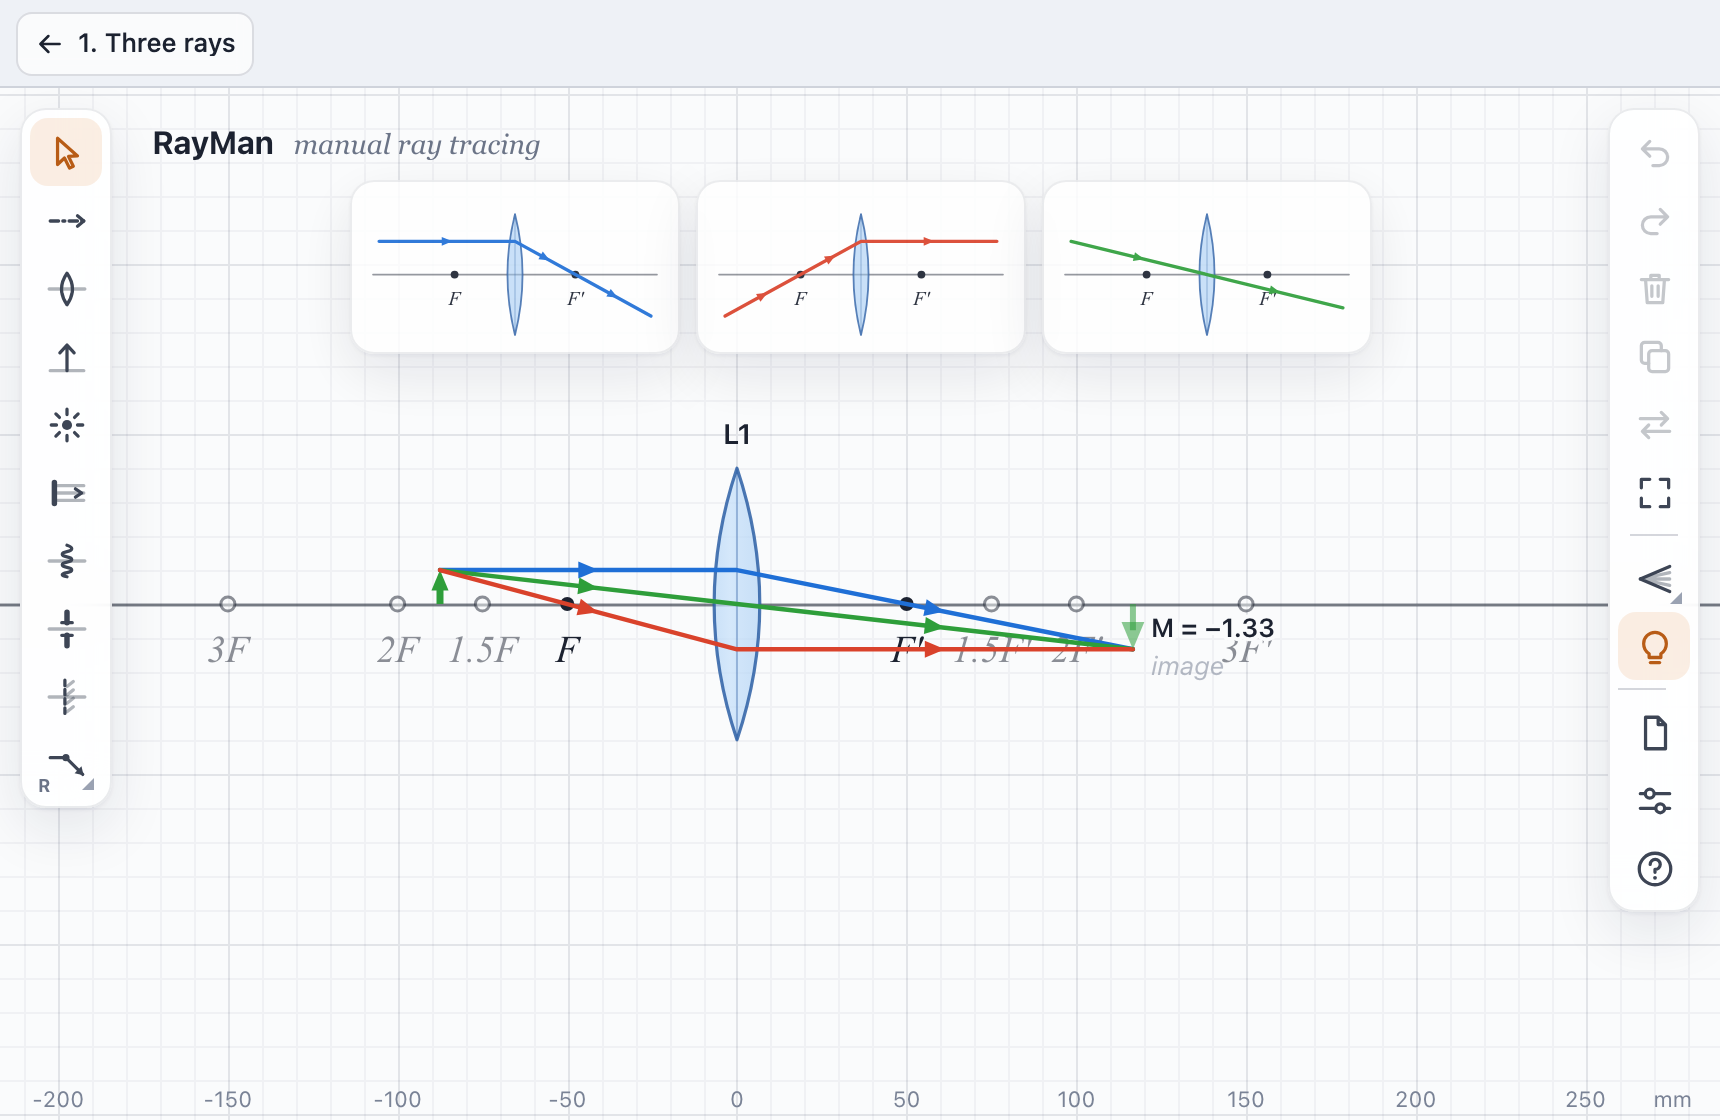
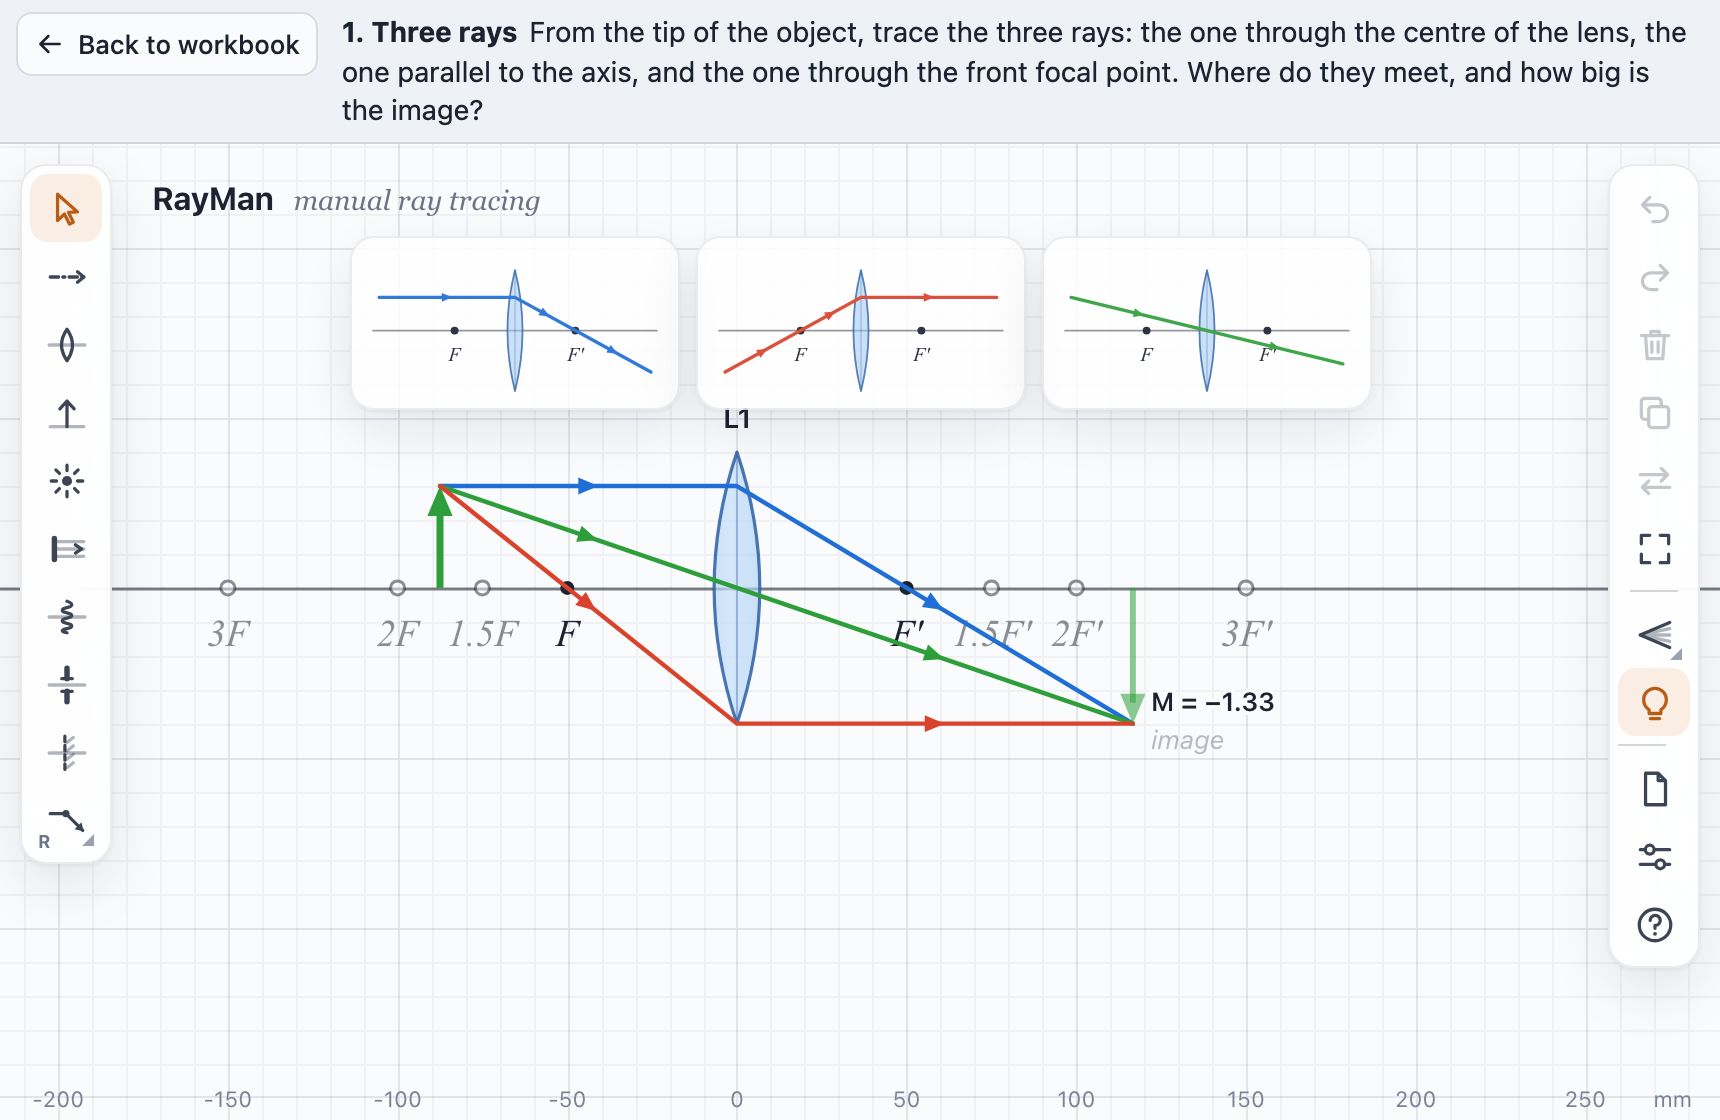
Workbook exercises load their scenes from .json files; instructions shown over RayMan (#15)
The example workbook points each exercise at a .json file beside the page (data-src),
with a test for loading it. Objects are 0.75 x the lens half height (3x taller). An
element with class rayman-instructions and data-for the exercise id is shown in the bar
beside Back to workbook, which grows with the text. Guide, CLAUDE.md, LOG updated.

diff --git a/workbook.js b/workbook.js
@@ -3,12 +3,14 @@
      <script src="https://swcmicroscopy.com/RayMan/workbook.js" defer></script>
      <div class="rayman-workbook-bar"></div>                      (optional: where Save and Load go)
      <p>Trace the three rays from the tip of the object.</p>
-     <div class="rayman-exercise" id="three-rays" data-title="Three rays">
-       <script type="application/json">{ …a scene saved from RayMan… }</script>
-     </div>
+     <p><span class="rayman-instructions" data-for="three-rays">Trace the three rays…</span></p>
+     <div class="rayman-exercise" id="three-rays" data-src="three-rays.json" data-title="Three rays"></div>
 
-   The scene can also come from data-src="….json", as with embed.js; data-height and data-theme
-   work as there. Clicking an exercise opens RayMan over the page (an iframe, index.html?workbook);
+   The scene is a .json file saved from RayMan, next to the page (data-src; the page must be served
+   from a web address, since browsers will not fetch files for a page opened from disk). It can also
+   be inside the element: <script type="application/json">{ … }</script>. data-height and data-theme
+   work as in embed.js. The instructions, in an element with class rayman-instructions and
+   data-for the exercise's id, are shown in the bar above RayMan, beside Back to workbook. Clicking an exercise opens RayMan over the page (an iframe, index.html?workbook);
    every change the student makes comes back to the page (postMessage), so the page may be served
    from any site. "Back to workbook" closes RayMan, and the diagram in the page shows the work.
 
@@ -64,7 +66,28 @@
     return (s || 'workbook') + '-answers.html';
   }
 
-  var H = { pick: pick, answersIn: answersIn, withAnswers: withAnswers, fileName: fileName };
+  /** The exercise's starting scene as text: inside the element, else fetched from its data-src
+      (get = fetch, or a stand-in). Rejects with a message to show if there is neither, or the
+      file is not there. */
+  function sceneText(el, get) {
+    var inline = el.querySelector('script[type="application/json"]');
+    if (inline) return Promise.resolve(inline.textContent);
+    if (!el.dataset.src) return Promise.reject(new Error('No scene: give data-src, or the scene inside the element.'));
+    return (get || fetch)(el.dataset.src).then(function (r) {
+      if (!r.ok) throw new Error('Could not load ' + el.dataset.src + ' (' + r.status + ').');
+      return r.text();
+    });
+  }
+
+  /** The instructions for exercise id: the text of the element with class rayman-instructions and
+      data-for that id, in root (the document), or '' if there is none. */
+  function instructionsFor(root, id) {
+    var el = root.querySelector('.rayman-instructions[data-for="' + String(id).replace(/["\\]/g, '\\$&') + '"]');
+    return el ? el.textContent.replace(/\s+/g, ' ').trim() : '';
+  }
+
+  var H = { pick: pick, answersIn: answersIn, withAnswers: withAnswers, fileName: fileName,
+            sceneText: sceneText, instructionsFor: instructionsFor };
   if (typeof module === 'object' && module.exports) { module.exports = H; return; }
 
   // ---------------------------------------------------------------- the page
@@ -107,9 +130,11 @@
     '.rm-wb-note{font:13px system-ui,-apple-system,"Segoe UI",sans-serif;color:#7a8396}',
     '.rm-wb-over{position:fixed;inset:0;z-index:2147483000;display:flex;flex-direction:column;background:#fafbfc}',
     '.rm-wb-over.rm-away{visibility:hidden;pointer-events:none}',
-    '.rm-wb-top{display:flex;align-items:center;gap:12px;height:44px;padding:0 8px;flex:none;',
-    'font:600 15px system-ui,-apple-system,"Segoe UI",sans-serif;color:#1c2230;background:#eef1f6;border-bottom:1px solid rgba(20,30,60,.14)}',
-    '.rm-wb-top span{overflow:hidden;text-overflow:ellipsis;white-space:nowrap}',
+    '.rm-wb-top{display:flex;align-items:flex-start;gap:12px;min-height:44px;max-height:35vh;overflow-y:auto;padding:6px 12px 6px 8px;flex:none;box-sizing:border-box;',
+    'font:14px/1.4 system-ui,-apple-system,"Segoe UI",sans-serif;color:#1c2230;background:#eef1f6;border-bottom:1px solid rgba(20,30,60,.14)}',
+    '.rm-wb-top .rm-btn{flex:none}',
+    '.rm-wb-text{flex:1;min-width:0;align-self:center}',
+    '.rm-wb-top b{margin-right:6px}',
     '.rm-wb-over iframe{flex:1;width:100%;border:0;display:block}',
     '.rm-wb-wait{position:absolute;inset:44px 0 0;display:grid;place-items:center;font:14px system-ui,sans-serif;color:#7a8396;z-index:-1}'
   ].join('');
@@ -125,16 +150,6 @@
 
   // ---------------------------------------------------------------- one exercise
 
-  function sceneText(el) {
-    var inline = el.querySelector('script[type="application/json"]');
-    if (inline) return Promise.resolve(inline.textContent);
-    if (!el.dataset.src) return Promise.reject(new Error('No scene: give data-src, or the scene inside the element.'));
-    return fetch(el.dataset.src).then(function (r) {
-      if (!r.ok) throw new Error('Could not load ' + el.dataset.src + ' (' + r.status + ').');
-      return r.text();
-    });
-  }
-
   /** A scene as RayMan holds it: the text it sends back for an unchanged exercise. */
   function scene(text) {
     var s = RM.scene.ensureAxis(RM.scene.fromJSON(text));
@@ -145,6 +160,7 @@
   function Exercise(el, i, start) {
     var x = { el: el, id: el.id || 'exercise-' + (i + 1), start: RM.scene.toJSON(scene(start)), canvas: null };
     x.title = el.dataset.title || 'Exercise ' + (i + 1);
+    x.instructions = instructionsFor(document, x.id);
     var theme = function () { return E.themeOf(el); };
     var bar = document.createElement('div');
     bar.className = 'rm-bar';
@@ -200,7 +216,8 @@
     top.className = 'rm-wb-top';
     var back = E.button('back', 'Back to workbook', 'Close RayMan and go back to the workbook');
     back.addEventListener('click', close);
-    var title = document.createElement('span');
+    var title = document.createElement('div');
+    title.className = 'rm-wb-text';
     top.appendChild(back); top.appendChild(title);
     var wait = document.createElement('div');
     wait.className = 'rm-wb-wait'; wait.textContent = 'Opening RayMan…';
@@ -225,7 +242,12 @@
   function open(x) {
     overlay();
     current = x;
-    over.querySelector('.rm-wb-top span').textContent = x.title;
+    var note = over.querySelector('.rm-wb-text');
+    note.textContent = '';
+    var t = document.createElement('b');
+    t.textContent = x.title;
+    note.appendChild(t);
+    if (x.instructions) note.appendChild(document.createTextNode(x.instructions));
     over.classList.remove('rm-away');
     overflow = document.body.style.overflow;
     document.body.style.overflow = 'hidden';

diff --git a/examples/workbook/index.html b/examples/workbook/index.html
@@ -40,31 +40,25 @@
 <div class="rayman-workbook-bar"></div>
 
 <h2>1. Three rays</h2>
-<p>The object stands 1.75 focal lengths in front of the lens L1 (f = 50 mm), and the hints are
-  on. From the tip of the object, trace the three rays: the one through the centre of the lens,
-  the one parallel to the axis, and the one through the front focal point. Where do they meet,
-  and how big is the image?</p>
-<div class="rayman-exercise" id="three-rays" data-title="1. Three rays" data-height="320">
-<script type="application/json">{"version":2,"nextId":4,"elements":[{"id":"e1","type":"axis","y":0,"label":""},{"id":"e2","type":"lens","z":0,"f":50,"ap":40,"label":"L1","planes":false,"axis":"e1"},{"id":"e3","type":"object","z":-87.5,"h":10,"label":"","color":null,"axis":"e1"}],"rays":[],"settings":{"follow":true,"colour":true,"fill":0,"virtual":false,"rims":false}}</script>
-</div>
+<p><b>Instructions.</b> <span class="rayman-instructions" data-for="three-rays">From the tip of the object, trace the three rays: the one through the centre of the lens, the one parallel to the axis, and the one through the front focal point. Where do they meet, and how big is the image?</span></p>
+<div class="rayman-exercise" id="three-rays" data-src="three-rays.json" data-title="1. Three rays" data-height="320"></div>
 
 <h2>2. Image at infinity</h2>
-<p>Now the object is at the front focal plane of L1. Trace the three rays from its tip again:
-  where is the image? Then add a second lens, also f = 50 mm, a reasonable distance (say 100 mm)
-  after L1, and trace the rays on through it. Where is the image now, and how big is it?</p>
-<div class="rayman-exercise" id="infinity" data-title="2. Image at infinity" data-height="320">
-<script type="application/json">{"version":2,"nextId":4,"elements":[{"id":"e1","type":"axis","y":0,"label":""},{"id":"e2","type":"lens","z":0,"f":50,"ap":40,"label":"L1","planes":false,"axis":"e1"},{"id":"e3","type":"object","z":-50,"h":10,"label":"","color":null,"axis":"e1"}],"rays":[],"settings":{"follow":true,"colour":true,"fill":0,"virtual":false,"rims":false}}</script>
-</div>
+<p>Now the object is at the front focal plane of L1.</p>
+<p><b>Instructions.</b> <span class="rayman-instructions" data-for="infinity">Trace the three rays from the object tip, extending them about 150 mm beyond L1. Is an image formed? Then add a second lens, also f = 50 mm, a reasonable distance (say 100 mm) after L1. Snap the rays already drawn onto L2 and trace on. Where is the image now, and how big is it?</span></p>
+<div class="rayman-exercise" id="infinity" data-src="infinity.json" data-title="2. Image at infinity" data-height="320"></div>
 
 <h2>Making a workbook</h2>
 <p>Load <code>workbook.js</code>, then add an element for each exercise, with a lasting
-  <code>id</code> and its starting scene (RayMan's menu → <b>Copy embed code</b> gives the scene).
-  A <code>rayman-workbook-bar</code> element says where Save and Load go.</p>
+  <code>id</code> and <code>data-src</code>, the starting scene as a <code>.json</code> file next to
+  the page (RayMan's menu → <b>Save</b> makes one). Put the instructions in an element with class
+  <code>rayman-instructions</code> and <code>data-for</code> the exercise's id: they show above
+  RayMan when the student works on it. A <code>rayman-workbook-bar</code> element says where Save
+  and Load go. The page must be served from a web address, not opened from disk.</p>
 <pre>&lt;script src="https://swcmicroscopy.com/RayMan/workbook.js" defer&gt;&lt;/script&gt;
 &lt;div class="rayman-workbook-bar"&gt;&lt;/div&gt;
-&lt;div class="rayman-exercise" id="three-rays" data-title="Three rays"&gt;
-&lt;script type="application/json"&gt;{"version":…,"elements":[…],"rays":[…]}&lt;/script&gt;
-&lt;/div&gt;</pre>
+&lt;p&gt;&lt;span class="rayman-instructions" data-for="three-rays"&gt;Trace the three rays…&lt;/span&gt;&lt;/p&gt;
+&lt;div class="rayman-exercise" id="three-rays" data-src="three-rays.json" data-title="Three rays"&gt;&lt;/div&gt;</pre>
 </main>
 </body>
 </html>

diff --git a/tests/workbook.test.js b/tests/workbook.test.js
@@ -76,17 +76,53 @@ test('the deploy stamps the embed.js that workbook.js loads', () => {
   fs.rmSync(tmp, { recursive: true });
 });
 
-test('the example workbook: two exercises with lasting ids, f = 50 mm, objects at 1.75 f and f, hints on', () => {
-  const html = fs.readFileSync(path.join(root, 'examples/workbook/index.html'), 'utf8');
+test('an exercise\'s scene is inside its element, or fetched from data-src', async () => {
+  const el = (src, inline) => ({ dataset: src ? { src } : {}, querySelector: () => inline ? { textContent: inline } : null });
+  const asked = [];
+  const files = { 'a.json': { ok: true, status: 200, text: async () => '{"scene":1}' }, 'gone.json': { ok: false, status: 404 } };
+  const get = url => { asked.push(url); return Promise.resolve(files[url]); };
+  assert.equal(await W.sceneText(el('a.json'), get), '{"scene":1}');
+  assert.deepEqual(asked, ['a.json']);
+  assert.equal(await W.sceneText(el('a.json', 'inline'), get), 'inline', 'a scene in the element needs no fetch');
+  assert.equal(asked.length, 1);
+  await assert.rejects(W.sceneText(el('gone.json'), get), /Could not load gone\.json \(404\)/);
+  await assert.rejects(W.sceneText(el(null), get), /No scene: give data-src/);
+});
+
+test('the instructions for an exercise are the text of the element that is data-for it', () => {
+  const found = {};
+  const root = { querySelector: sel => { const m = sel.match(/data-for="(.*)"\]$/); return found[m && m[1]] ? { textContent: found[m[1]] } : null; } };
+  found.q1 = '  Trace the\n   three rays. ';
+  assert.equal(W.instructionsFor(root, 'q1'), 'Trace the three rays.');
+  assert.equal(W.instructionsFor(root, 'q2'), '');
+  let sel;
+  W.instructionsFor({ querySelector: s => { sel = s; return null; } }, 'a"b');
+  assert.equal(sel, '.rayman-instructions[data-for="a\\"b"]', 'an id cannot break out of the selector');
+});
+
+test('the bar over RayMan shows the title and the instructions beside Back to workbook, and may grow', () => {
+  const src = fs.readFileSync(path.join(root, 'workbook.js'), 'utf8');
+  assert.match(src, /x\.instructions = instructionsFor\(document, x\.id\)/);
+  assert.match(src, /if \(x\.instructions\) note\.appendChild\(document\.createTextNode\(x\.instructions\)\)/);
+  assert.match(src, /\.rm-wb-top\{[^']*min-height:44px/, 'the bar grows with the text, not a fixed height');
+  assert.match(src, /querySelector\('\.rm-wb-text'\)/, 'the text goes in its own element, not the first span (the back button holds one)');
+});
+
+test('the example workbook: scenes are .json files next to the page, f = 50 mm, objects at 1.75 f and f, hints on', () => {
+  const dir = path.join(root, 'examples/workbook');
+  const html = fs.readFileSync(path.join(dir, 'index.html'), 'utf8');
   assert.match(html, /<script src="\.\.\/\.\.\/workbook\.js" defer><\/script>/);
-  const ex = [...html.matchAll(/<div class="rayman-exercise" id="([\w-]+)"[^>]*>\s*<script type="application\/json">([^<]*)<\/script>/g)];
+  const ex = [...html.matchAll(/<div class="rayman-exercise" id="([\w-]+)" data-src="([\w.-]+\.json)"[^>]*><\/div>/g)];
   assert.deepEqual(ex.map(m => m[1]), ['three-rays', 'infinity']);
+  assert.ok(!/<script type="application\/json">/.test(html.slice(0, html.indexOf('<h2>Making'))), 'no scene written into the page');
   const zs = ex.map(m => {
-    const s = S.fromJSON(m[2]);
+    const s = S.fromJSON(fs.readFileSync(path.join(dir, m[2]), 'utf8'));
     const lens = s.elements.find(e => e.type === 'lens'), obj = s.elements.find(e => e.type === 'object');
     assert.equal(lens.f, 50);
+    assert.equal(obj.h, 0.75 * lens.ap, 'the object is 0.75 of the lens half height');
     assert.equal(s.settings.colour, true, 'hints on');
     return (lens.z - obj.z) / lens.f;
   });
   assert.deepEqual(zs, [1.75, 1]);
+  for (const m of ex) assert.match(html, new RegExp('class="rayman-instructions" data-for="' + m[1] + '">\\S'), m[1] + ' has instructions');
 });

diff --git a/Claude/guide-shots/scenes.js b/Claude/guide-shots/scenes.js
@@ -183,10 +183,10 @@
     // The example workbook's first exercise, done: the three rays from the tip (hints on).
     workbookAnswer: function () {
       var L = lens(0, 50, 40, 'L1');
-      var O = on(S.addObject(real, -87.5, 10));
+      var O = on(S.addObject(real, -87.5, 30));
       real.settings.colour = true;
-      var a = ray({ at: { el: O.id, pt: 'tip' } }); draw(a, { z: 0, y: 10 }); bent(a, L, 160);
-      var b = ray({ at: { el: O.id, pt: 'tip' } }); draw(b, { z: 0, y: 0.2 }); draw(b, { z: 160, y: -18.3 });
+      var a = ray({ at: { el: O.id, pt: 'tip' } }); draw(a, { z: 0, y: 30 }); bent(a, L, 160);
+      var b = ray({ at: { el: O.id, pt: 'tip' } }); draw(b, { z: 0, y: 0.2 }); draw(b, { z: 160, y: -54.9 });
       var c = ray({ at: { el: O.id, pt: 'tip' } });
       c.nodes.push({ dir: { kind: 'through', at: { el: L.id, pt: 'F' } }, end: { kind: 'lens', el: L.id } });
       bent(c, L, 160);

diff --git a/guide/index.html b/guide/index.html
@@ -225,7 +225,9 @@
     <figcaption>Working on it in RayMan.</figcaption></figure>
 </div>
 <p>To write one, load <code>workbook.js</code> and give each exercise an <code>id</code> and its
-  starting scene (<b>Copy embed code</b> gives the scene). See the
+  starting scene as a <code>.json</code> file next to the page (<code>data-src</code>; save it from
+  RayMan's File menu). The instructions go in an element with class <code>rayman-instructions</code>;
+  they show above RayMan while the student works. Serve the page from a web address. See the
   <a href="../examples/workbook/index.html">example workbook</a>.</p>
 
 <h2 id="install">Install as an app</h2>

diff --git a/Claude/guide-shots/shots.py b/Claude/guide-shots/shots.py
@@ -1,7 +1,7 @@
 """Take the screenshots for guide/index.html. Run from anywhere:  python3 Claude/guide-shots/shots.py
 Needs Google Chrome and the Python `websocket-client` package. Each picture is a scene from
 scenes.js, built in the real app, fitted, and saved to guide/img/ at 2x."""
-import json, os, sys, time
+import json, os, subprocess, sys, time
 sys.path.insert(0, os.path.dirname(__file__))
 from cdp import Page, ROOT
 
@@ -73,7 +73,7 @@ def embed_shots(p, only):
     p.shot(os.path.join(OUT, "embed-enlarged.png")); print("wrote guide/img/embed-enlarged.png errors:", p.errors or "none")
     p.errors.clear()
 
-WORKBOOK = "file://" + ROOT.replace(" ", "%20") + "/examples/workbook/index.html"
+WORKBOOK = "http://localhost:8765/examples/workbook/index.html"      # served: the scenes are fetched as .json files
 
 def workbook_shots(p, only):
     """The workbook pictures: the example workbook with the first exercise done, and that
@@ -83,6 +83,13 @@ def workbook_shots(p, only):
     p.open()
     p.js(SCENES)
     answer = p.js("GUIDE.workbookAnswer()")
+    server = subprocess.Popen([sys.executable, "-m", "http.server", "8765", "--bind", "127.0.0.1", "-d", ROOT],
+                              stdout=subprocess.DEVNULL, stderr=subprocess.DEVNULL)
+    time.sleep(1)                                       # let the server start
+    try: workbook_pictures(p, answer)
+    finally: server.terminate()
+
+def workbook_pictures(p, answer):
     p.cmd("Page.navigate", url=WORKBOOK); time.sleep(1)
     p.js("localStorage.setItem('rayman.workbook:' + location.pathname, JSON.stringify({saved: Date.now(), scenes: {'three-rays': %s}}))" % json.dumps(answer))
     p.cmd("Emulation.setDeviceMetricsOverride", width=W, height=900, deviceScaleFactor=2, mobile=False)

diff --git a/Claude/LOG.md b/Claude/LOG.md
@@ -1841,3 +1841,23 @@ view, so a ray aimed through (or parallel to) one that was off could not be plac
   undo to the start clears it, redo restores; Save → open the file from disk with storage
   cleared → answers there; Load the file → answers there; standalone autosave unchanged.
 - Guide: a short Workbooks section with two generated pictures (`workbook`, `workbook-open`).
+
+## 2026-11-17: workbook exercises from .json files (#15)
+
+- The example workbook now loads each exercise's scene from a `.json` file beside the page
+  (`data-src`, which `workbook.js` already supported), so building one is: save a scene from
+  RayMan, point the page at it. Inline `<script type="application/json">` still works. Students
+  use a URL, so `fetch` works; a page opened from disk cannot fetch (Chrome/Safari), noted in the
+  guide. A Save copy carries a `<base>` to the online folder, so it finds the JSON.
+- Test for `data-src` (fetch, inline wins, 404 and missing-scene messages) via `sceneText(el, get)`,
+  exported with the other helpers; the example test now reads the JSON files.
+- Objects in the examples were small (h = 10 on a lens of half height 40): now 30, 0.75 × `ap`.
+  Rule added to CLAUDE.md. The guide picture's scene follows.
+- Instructions: an element with class `rayman-instructions` and `data-for` the exercise id (inside
+  the page's own text) is shown in the bar over RayMan, right of Back to workbook. The bar grows
+  with the text (min 44 px, at most 35% of the height, then scrolls). Found by mouse: the title was
+  written into the first `span` of the bar, which is the back button's label; the text now has
+  its own element.
+- Example texts reworded (lecturer's wording). `shots.py` serves the repo on localhost:8765 for the
+  workbook pictures, since `data-src` needs http.
+

diff --git a/CLAUDE.md b/CLAUDE.md
@@ -30,6 +30,8 @@ The code is written by Claude, directed by the course lecturer. See `README.md` 
 
 - The lecturer curates features: propose, then build what is chosen, test it (unit tests and
   by mouse in headless Chrome, see `Claude/guide-shots/cdp.py`), fix what turns up.
+- Example scenes with an object (guide shots, examples, workbook exercises): make the object's height
+  roughly 0.75× the lens's half height (the lens's `ap`). Small arrows look silly.
 - Do not add shortcuts that speed up drawing rays: the slow, by-hand workflow is the point.
 - Testing: open `index.html` from the repository, or serve the repo root locally. Every push to
   main deploys RayMan to GitHub Pages (`.github/workflows/pages.yml`), which stamps the asset
